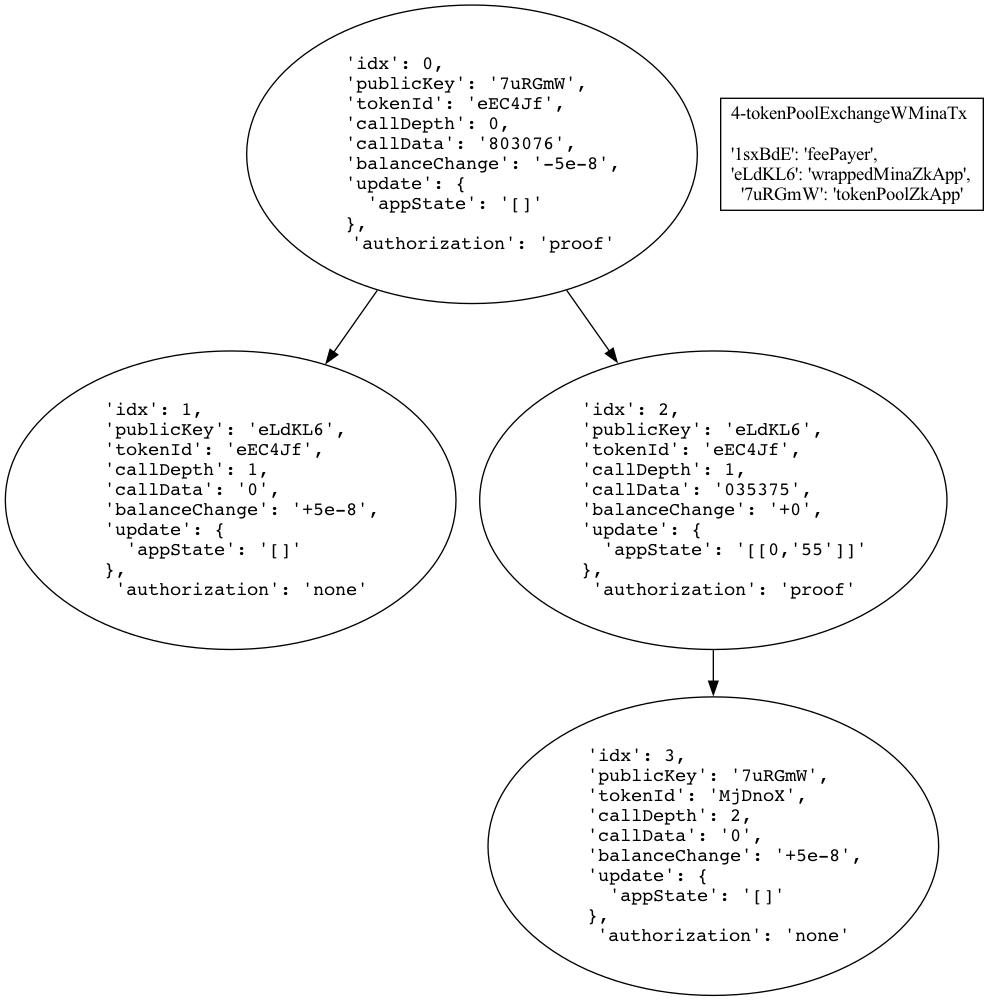
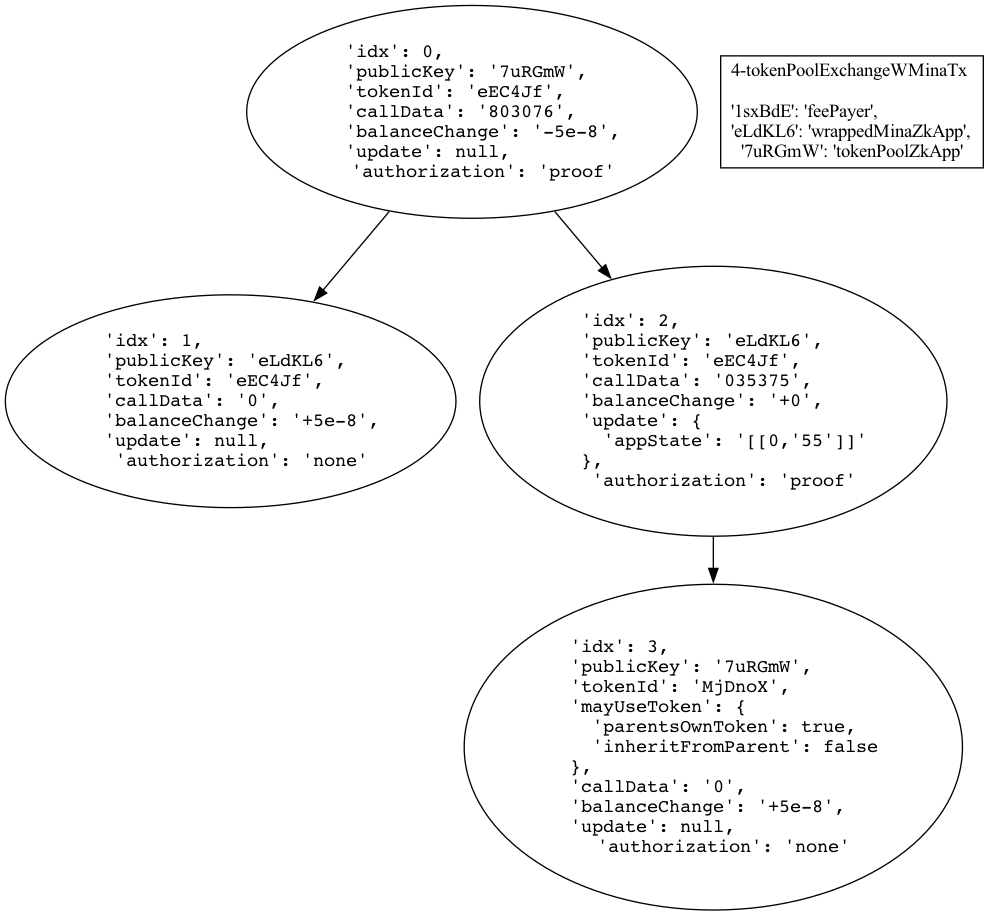
update

diff --git a/14-zkApp-manager-accounts/src/readTransactions.ts b/14-zkApp-manager-accounts/src/readTransactions.ts
@@ -79,6 +79,9 @@ function printTxn(txn: any) {
       } else {
         au.body.update.appState = JSON.stringify(au.body.update.appState.map((u: any, i: any) => [ i, u ])
                                                   .filter((x: any) => x[1] != null));
+        if (au.body.update.appState == '[]') {
+          delete au.body.update.appState;
+        }
       }
     }
     au.idx = idx;
@@ -86,6 +89,10 @@ function printTxn(txn: any) {
     au.body.preconditions = removeNull(au.body.preconditions)
     au.body.publicKey = au.body.publicKey.slice(-6);
     au.body.tokenId = au.body.tokenId.slice(-6);
+
+    if (!au.body.mayUseToken.parentsOwnToken && !au.body.mayUseToken.inheritFromParent) {
+      delete au.body.mayUseToken;
+    }
 
     if (au.body.events.length == 0) {
       delete au.body.events;
@@ -112,7 +119,8 @@ function printTxn(txn: any) {
       idx: au.idx,
       publicKey: au.body.publicKey.slice(-6),
       tokenId: au.body.tokenId.slice(-6),
-      callDepth: au.body.callDepth,
+      //callDepth: au.body.callDepth,
+      mayUseToken: au.body.mayUseToken,
       callData: au.body.callData.slice(-6),
       balanceChange: (au.body.balanceChange.sgn == 'Positive' ? '+' : '-') + (au.body.balanceChange.magnitude/1e9),
       update: au.body.update,     
